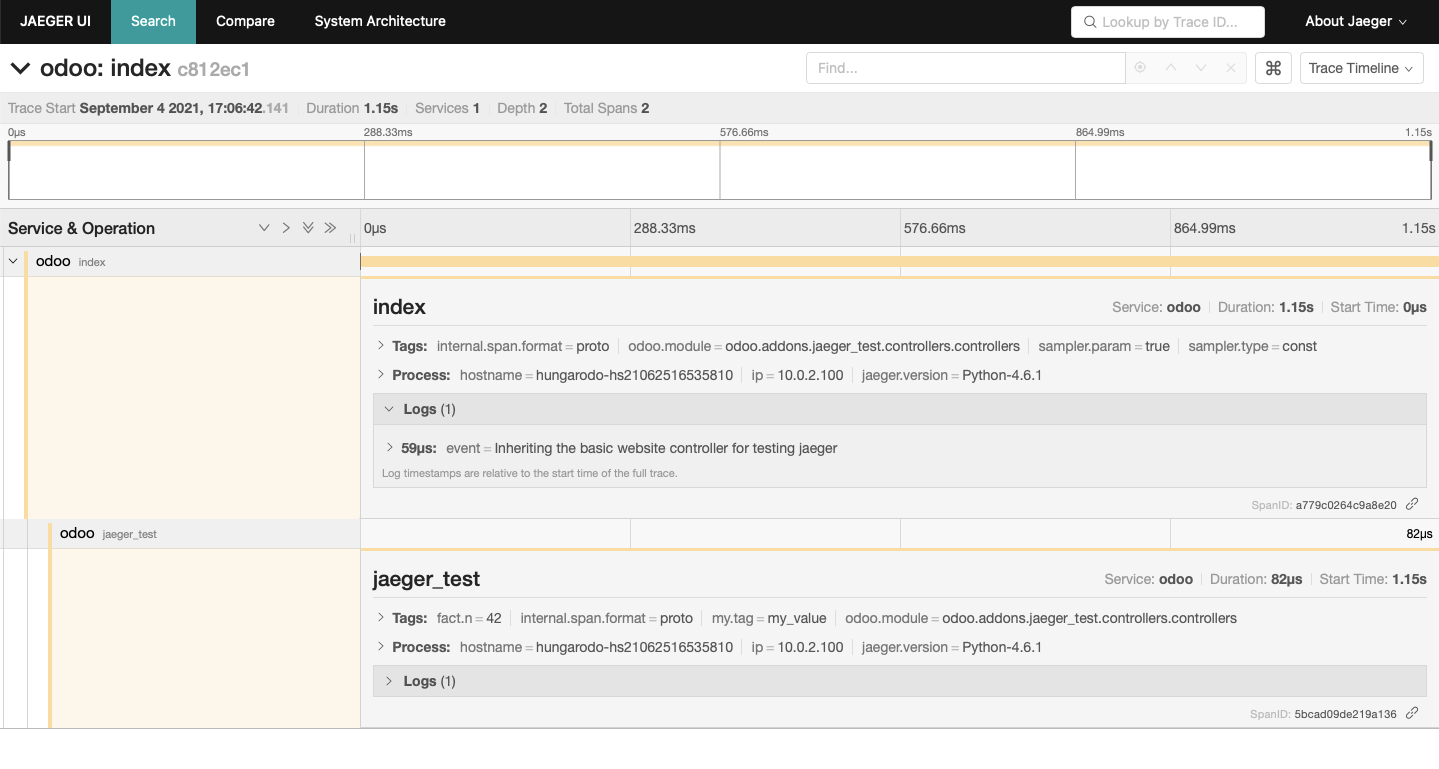
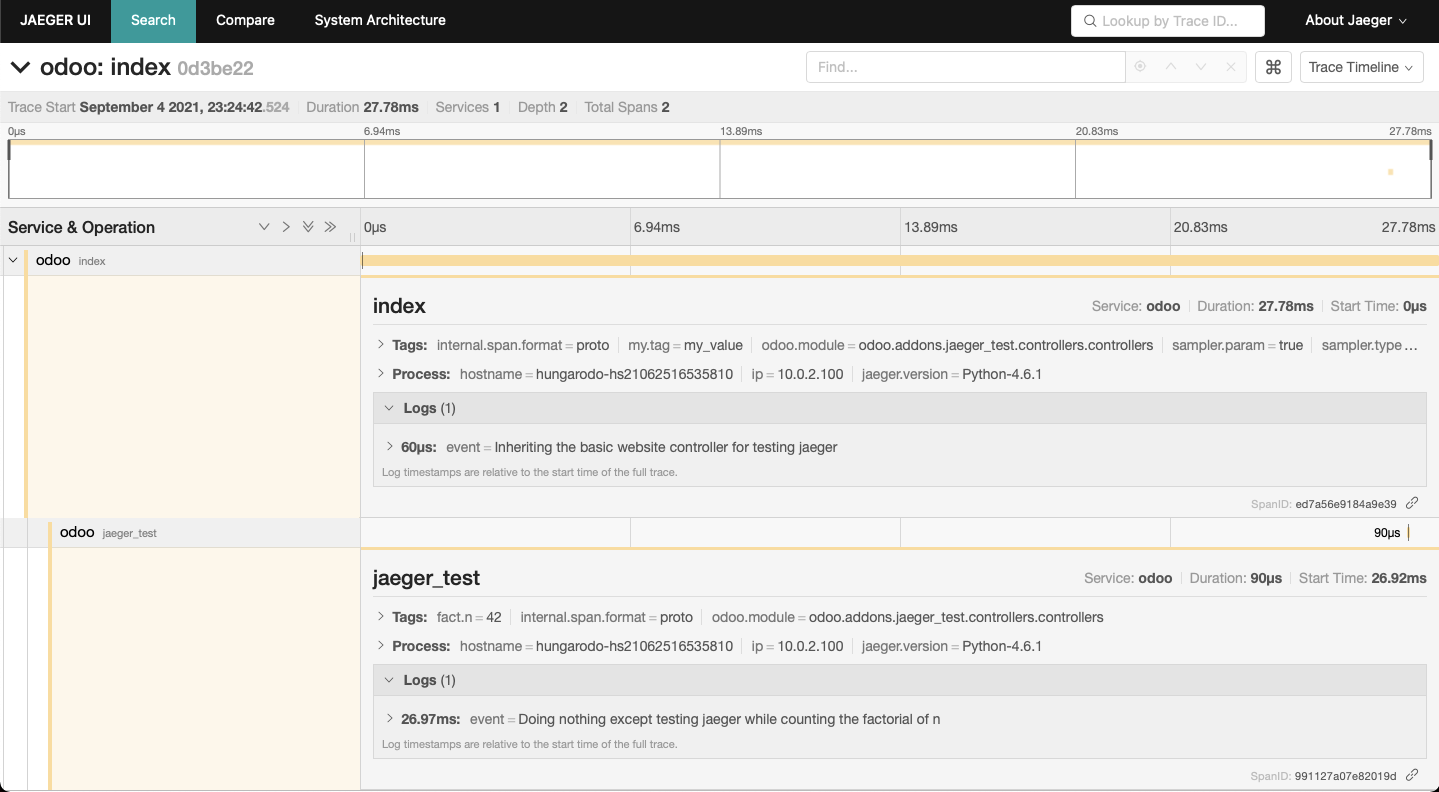
[FIX] jaeger_tracer: missing log in child span

diff --git a/jaeger_tracer/jaeger.py b/jaeger_tracer/jaeger.py
@@ -16,13 +16,14 @@ def span(_func=None, *,
         @functools.wraps(func)
         def _span(*args, **kwargs):
             # filling span properties
-            _tags = tags
-            _log_kv = log_kv
             _operation = func.__name__ if not operation else operation
+            _tags, _log_kv = {}, {}
+            _tags.update(tags)
+            _log_kv.update(log_kv)
 
-            if 'module' not in _tags.keys():
+            if 'module' not in tags.keys():
                 _tags['odoo.module'] = func.__module__
-            if 'event' not in _log_kv.keys() and func.__doc__:
+            if 'event' not in log_kv.keys() and func.__doc__:
                 _log_kv['event'] = func.__doc__
 
             tracer = opentracing.tracer

diff --git a/jaeger_tracer/README.rst b/jaeger_tracer/README.rst
@@ -32,18 +32,18 @@ To instrument your apps, you can use a decorator provided by the module, like th
    class Website(Website):
        n = 42
 
-       @jaeger.span(tags={'my.tag': 'my_value', 'fact.n': n})
+       @jaeger.span(tags={'fact.n': n})
        def jaeger_test(self, n):
+           '''Doing nothing except testing jaeger while counting the factorial of n'''
            fact = 1
            for i in range(1, n+1):
                fact = fact * i
            return fact
 
-       @jaeger.span
+       @jaeger.span(tags={'my.tag': 'my_value'})
        @http.route('/', type='http', auth="public", website=True, sitemap=True)
        def index(self, **kw):
            '''Inheriting the basic website controller for testing jaeger'''
-
            res = super(Website, self).index(**kw)
            self.jaeger_test(self.n)
            return res
